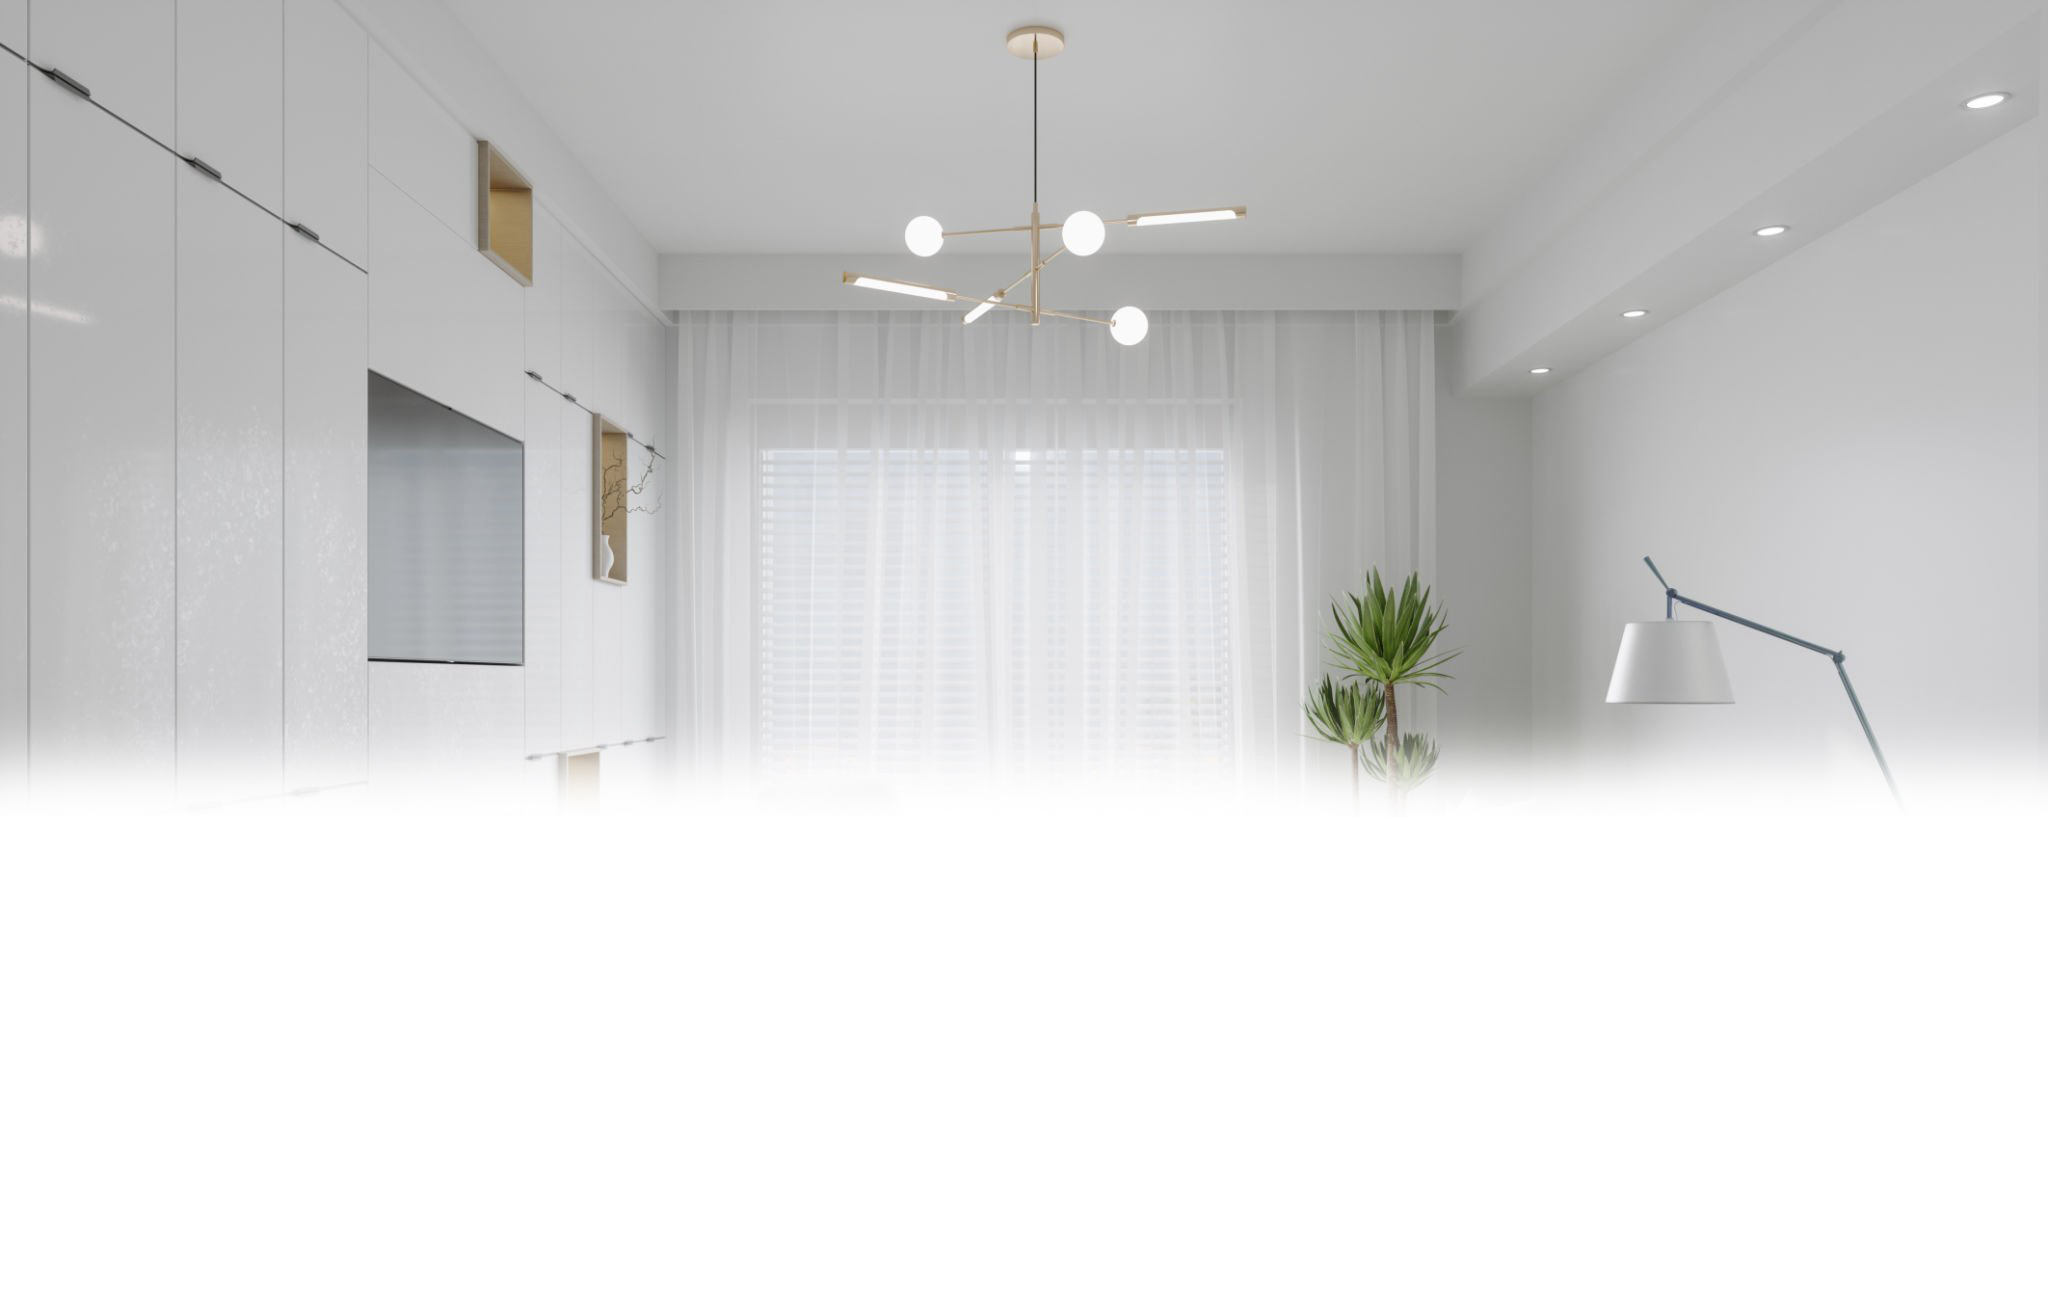
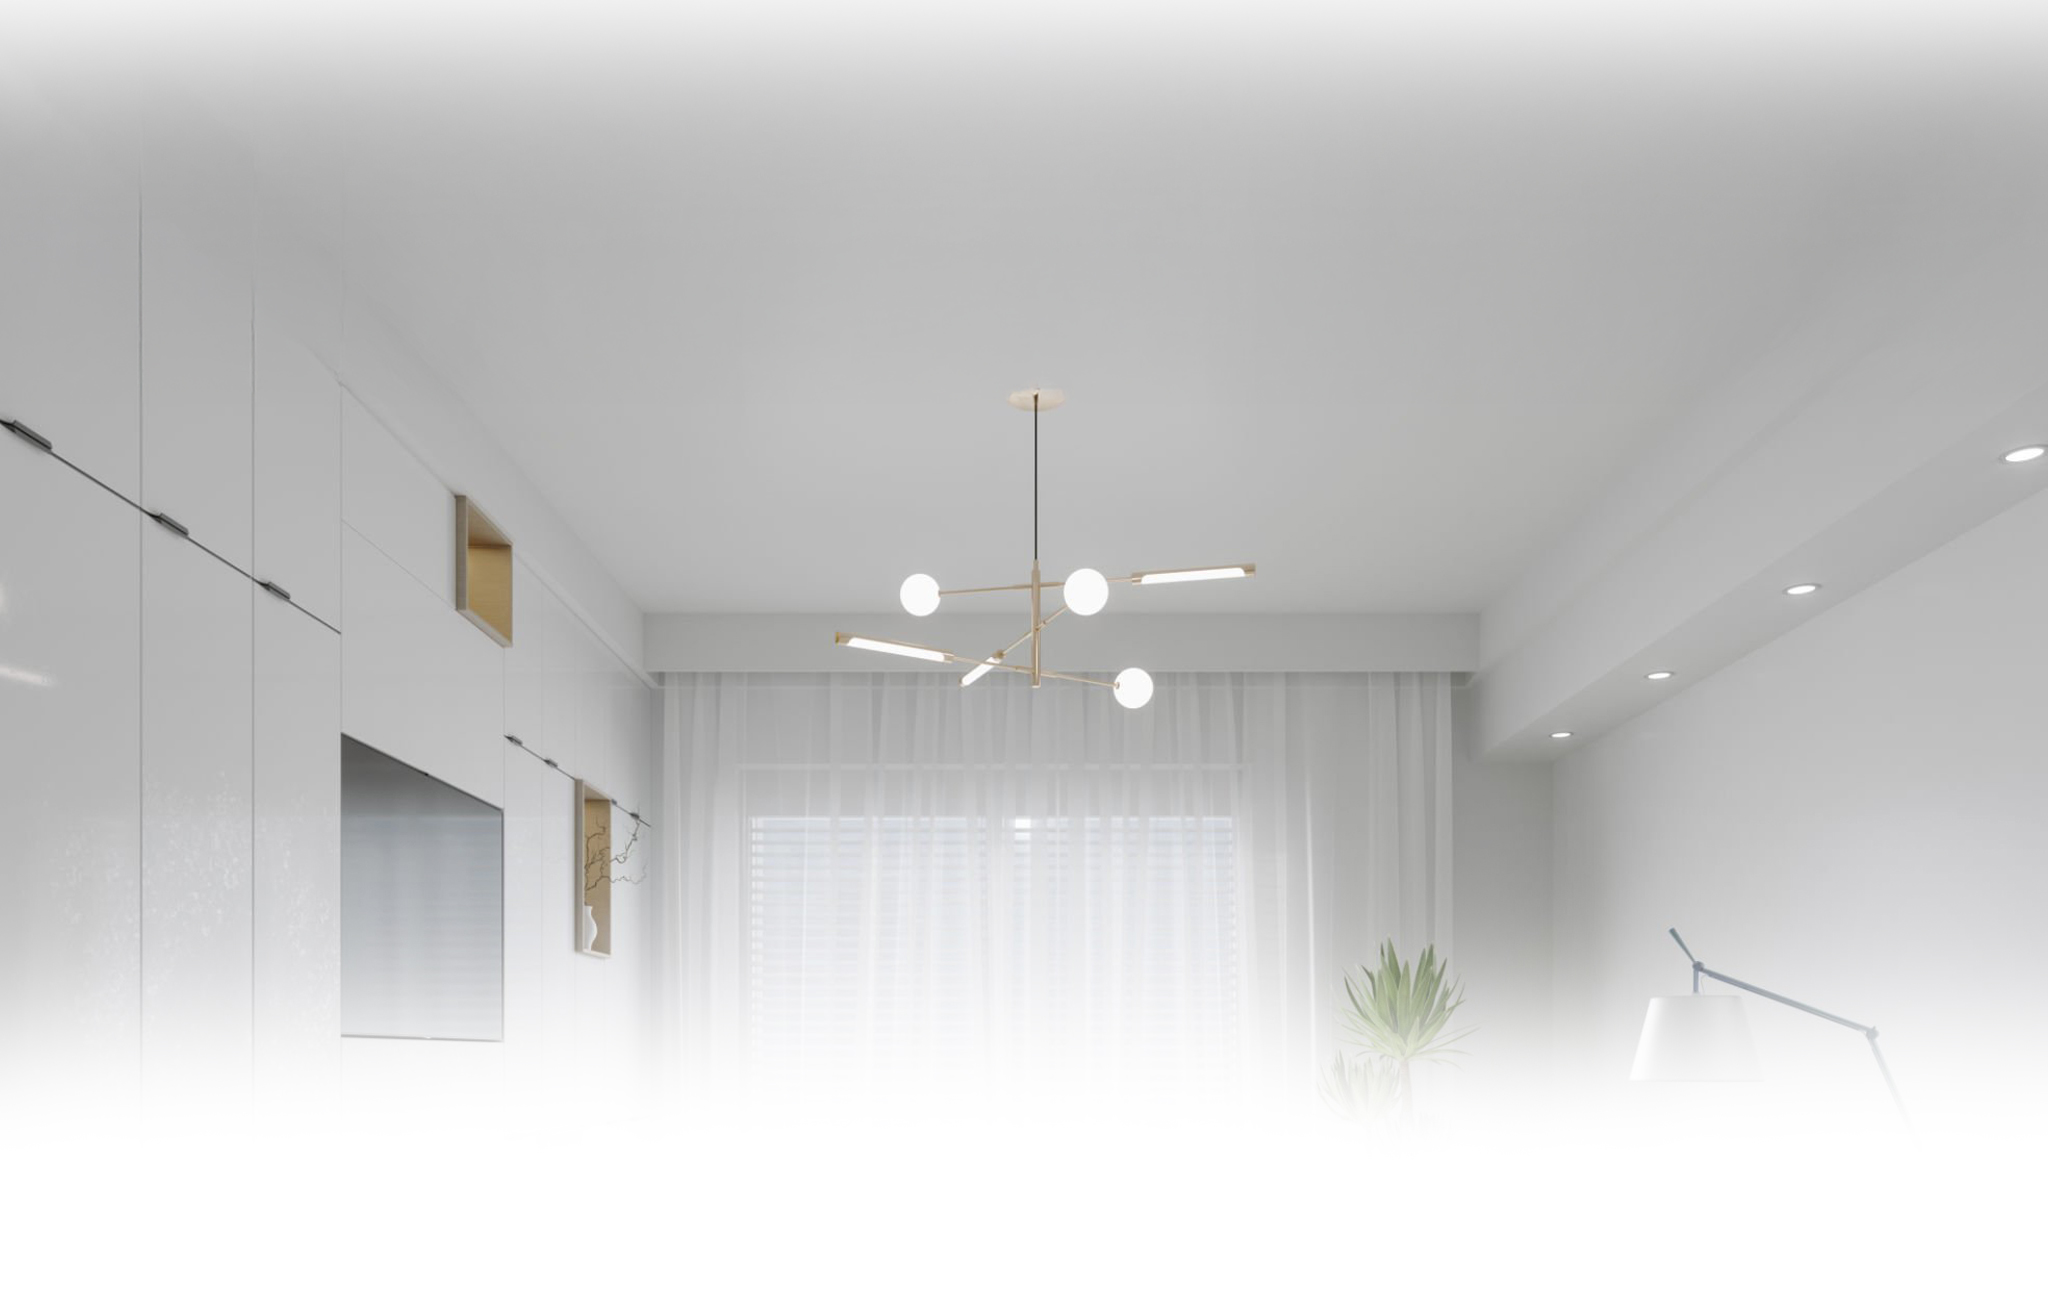
updated text, header, colors etc. (v3.3.2)

diff --git a/src/components/HeroSection.jsx b/src/components/HeroSection.jsx
@@ -1,28 +1,60 @@
+import { Check } from "lucide-react";
+
 const HeroSection = ({ contactRef }) => {
   return (
-    <div className="relative w-full h-[50vh] pt-50 bg-[url('/src/assets/herosection/headerbanner1.jpg')] bg-cover">
-      {" "}
-      {/* Increased height with h-96 */}
-      {/* Overlay for gradient */}
-      <div className="absolute inset-0 bg-gradient-to-r from-white/100 to-transparent"></div>{" "}
-      {/* Added overlay with bottom-up gradient */}
-      {/* Content - positioned above the overlay */}
-      <div className="relative z-10 flex flex-col items-center justify-center h-full w-full max-w-6xl mx-auto ">
-        {" "}
-        {/* Added relative, z-10, justify-center, h-full */}
-        <p className="max-w-4xl mx-auto mb-4 text-center text-sm text-balance text-black md:mb-8 lg:mb-8 md:text-2xl">
-          {" "}
-          {/* Changed text color to white for better contrast */}
-          Your go-to destination for quality electrical solutions.
-        </p>
-        <button
-          onClick={() =>
-            contactRef.current?.scrollIntoView({ behavior: "smooth" })
-          }
-          className="px-4 py-3 mx-2 font-medium border-blue-600 rounded-xs shadow-xs border-1 bg-linear-to-r from-blue-400 to-blue-800 text-amber-50 hover:to-blue-600  md:mb-4 lg:mb-4 md:px-6 md:py-4 md:text-lg cursor-pointer motion-preset-bounce "
-        >
-          CONTACT US
-        </button>
+    <div className="relative w-full min-h-[450px] h-auto max-h-[60vh] xs:max-h-[70vh] sm:h-auto bg-[url('/src/assets/herosection/headerbanner1.jpg')] bg-cover bg-center overflow-hidden">
+      <div className="absolute inset-0 bg-gradient-to-r from-white/95 to-transparent"></div>
+
+      <div className="relative z-10 flex flex-col items-center justify-center h-full w-full max-w-6xl mx-auto pt-6 xs:pt-12 sm:pt-20 sm:px-6 sm:py-8 px-2">
+        <h2 className="text-3xl xs:text-4xl tracking-wide text-center sm:text-5xl lg:text-6xl mx-auto mb-4 xs:mb-6 sm:mb-8 mt-4  xs:mt-8">
+          <span className="text-transparent bg-linear-to-r from-blue-500 to-blue-700 bg-clip-text font-semibold">
+            Your go-to destination for quality electrical solutions.
+          </span>
+        </h2>
+
+        <div className="grid grid-cols-1 gap-4 xs:gap-6 w-full px-2 xs:px-4">
+          <div className="flex flex-col md:flex-row md:justify-center items-center w-full space-y-2 xs:space-y-4 md:space-y-0 md:space-x-32 pb-4">
+            <ul className="flex flex-col space-y-1 xs:space-y-2">
+              {[
+                "Licensed, Bonded, & Insured",
+                "2-year Warranty Guarantee",
+                "Transparent, Upfront Pricing",
+                "Locally & Family Owned",
+                "Free Estimates",
+              ].map((item, index) => (
+                <li
+                  key={index}
+                  className="flex items-center text-base xs:text-lg"
+                >
+                  <Check
+                    className={`mr-2 ${
+                      index % 2 === 0 ? "text-blue-600" : "text-red-600"
+                    }`}
+                    size={16}
+                  />
+                  {item}
+                </li>
+              ))}
+            </ul>
+
+            <div className="flex flex-col items-center space-y-2 pb-4 xs:pb-8 mt-2 xs:mt-0">
+              <button
+                onClick={() =>
+                  contactRef.current?.scrollIntoView({ behavior: "smooth" })
+                }
+                className="w-full max-w-[240px] px-4 xs:px-6 py-3 xs:py-4 font-medium border-blue-600 rounded-md shadow-xs border-1 bg-linear-to-r from-blue-400 to-blue-800 text-amber-50 hover:to-blue-600 text-base xs:text-lg cursor-pointer motion-preset-bounce"
+              >
+                GET A QUOTE TODAY
+              </button>
+              <button
+                onClick={() => (window.location.href = "tel:425-561-9562")}
+                className="w-full max-w-[240px] px-4 xs:px-6 py-3 xs:py-4 font-medium border-red-600 rounded-md shadow-xs border-1 bg-linear-to-r from-red-400 to-red-800 text-amber-50 hover:to-red-600 text-base xs:text-lg cursor-pointer motion-preset-bounce"
+              >
+                CALL US NOW
+              </button>
+            </div>
+          </div>
+        </div>
       </div>
     </div>
   );

diff --git a/src/components/Partners.jsx b/src/components/Partners.jsx
@@ -2,44 +2,47 @@ import { partners } from "../constants"; // Importing the list of partners from 
 
 const Partners = () => {
   return (
-    <div className="mt-20 tracking-wide min-h-[300px]  border-blue-700">
+    <div className="mt-20 tracking-wide min-h-[300px] border-blue-600">
       {/* Separate div for the border at the top */}
       <div className="border-b border-blue-700 max-w-4xl mx-auto "></div>
       {/* Section title */}
-      <h2 className="pt-20 mt-6 text-5xl tracking-wide text-center sm:text-5xl lg:text-6xl">
-        OUR{" "}
-        <span className="text-transparent bg-linear-to-r from-blue-500 to-blue-700 bg-clip-text">
-          PARTNERS
+      <h2 className="pt-10 mt-6 text-4xl tracking-wide text-center sm:text-5xl lg:text-6xl">
+        <span className=" text-center text-transparent bg-linear-to-r from-orange-700 to-orange-600 bg-clip-text">
+          Certified Generac Installer
         </span>
         <br></br> <br></br>
       </h2>
 
-      {/* Container for partner logos */}
-      <div className="flex flex-wrap justify-center">
-        {partners.map((partner, index) => (
-          <div key={index} className="w-full px-4 py-2 sm:w-1/2 lg:w-1/3">
-            {/* Individual partner card */}
-            <div className="p-6 border-1 border-blue-700 rounded-sm bg-neutral-900">
-              <a
-                /* href="https://www.generac.com" */ // Link to partner's website
-                target="_blank" // Opens the link in a new tab
-                rel="noopener noreferrer" // Prevents security vulnerabilities
-              >
-                <img
-                  className="w-full rounded-md h-30 object-contain" // Styling for the partner logo
-                  src={partner.image} // Partner logo image source
-                />
-              </a>
+      {/* Certification description and partner logos side by side */}
+      <div className="flex flex-wrap justify-center  gap-8">
+        {/* Container for partner logos */}
+        <div className="flex flex-wrap justify-center">
+          {partners.map((partner, index) => (
+            <div key={index} className="w-full px-4 py-2 sm:w-1/2 lg:w-1/1">
+              {/* Individual partner card */}
+              <div className="p-6 border-1 border-blue-700 rounded-sm bg-neutral-900">
+                <a
+                  /* href="https://www.generac.com" */ // Link to partner's website
+                  target="_blank" // Opens the link in a new tab
+                  rel="noopener noreferrer" // Prevents security vulnerabilities
+                >
+                  <img
+                    className="w-full rounded-md h-30 object-contain" // Styling for the partner logo
+                    src={partner.image} // Partner logo image source
+                  />
+                </a>
+              </div>
             </div>
-          </div>
-        ))}
-      </div>
-
-      {/* Footer section with certification text */}
-      <div className="flex items-center justify-center pt-6">
-        <span className="text-2xl text-center text-transparent bg-linear-to-r from-orange-700 to-orange-600 bg-clip-text ">
-          Certified Generac Installer
-        </span>
+          ))}
+        </div>
+        {/* Certification description */}
+        <div className="max-w-lg text-lg text-black text-left sm:text-center sm:px-0 px-4">
+          Our certification means we’ve been thoroughly trained to meet
+          Generac’s standards, ensuring your generator is installed correctly,
+          safely, and efficiently. Choosing a certified installer gives you
+          peace of mind and reliable service— making it a smart investment in
+          your home or business’s power security.
+        </div>
       </div>
     </div>
   );

diff --git a/src/components/FeatureSection.jsx b/src/components/FeatureSection.jsx
@@ -39,7 +39,7 @@ const FeatureSection = () => {
       }}
     >
       {/* Section Title */}
-      <h2 className="text-4xl tracking-wide text-center border-t-1  border-blue-700 sm:text-5xl lg:text-6xl  bg-gradient-to-b from-blue-50 to-transparent ">
+      <h2 className="text-4xl tracking-wide text-center border-t-1  border-blue-600 sm:text-5xl lg:text-6xl  bg-gradient-to-b from-blue-50 to-transparent ">
         <br></br>
         OUR{" "}
         <span className="text-transparent bg-linear-to-r from-blue-500 to-blue-700 bg-clip-text">
@@ -75,7 +75,7 @@ const FeatureSection = () => {
           <div
             className={`lg:max-w-2xl motion-preset-focus lg:flex lg:justify-center lg:items-center motion-preset-blur-right max-w-lg p-6 mx-auto mt-0 text-lg text-white bg-black shadow-lg ${
               isExpanded
-                ? "rounded-none"
+                ? "rounded-md"
                 : "motion-preset-fade motion-preset-blur-down"
             }`}
           >
@@ -113,7 +113,7 @@ const FeatureSection = () => {
         <div className="grid grid-cols-2 gap-2 pb-20 md:grid-cols-3"></div>
       </div>
       {/* Separate div for the border at the bottom */}
-      <div className="border-b border-red-700 max-w-4xl mx-auto"></div>
+      <div className="border-b border-red-600 max-w-4xl mx-auto"></div>
     </div>
   );
 };

diff --git a/src/components/ContactUs.jsx b/src/components/ContactUs.jsx
@@ -57,7 +57,7 @@ const Contacts = ({ homeRef }) => {
       }}
     >
       {/* Separate div for the border above remove max-w-4xl mx-auto for the line to extend*/}
-      <div className="border-t-1 border-red-700 max-w-4xl mx-auto  "></div>
+      <div className="border-t-1 border-red-600 max-w-4xl mx-auto "></div>
       <h2 className="flex flex-col items-center gap-2 pt-12 text-5xl tracking-wide text-center bg-gradient-to-b from-white-50 to-transparent">
         <div>
           CONTACT{" "}
@@ -71,7 +71,7 @@ const Contacts = ({ homeRef }) => {
 
         <a
           href="tel:425-588-7578"
-          className="flex items-center justify-center gap-2 text-xl font-semibold text-blue-600"
+          className="flex items-center justify-center gap-2 text-xl font-semibold text-blue-600 pb-2"
         >
           <PhoneCall />
           <p>425-561-9562 </p>

diff --git a/src/components/Projects.jsx b/src/components/Projects.jsx
@@ -30,7 +30,7 @@ const NextArrow = (props) => {
         top: "auto",
         right: "auto",
         cursor: "pointer",
-        backgroundColor: "red",
+        backgroundColor: "#2563EB",
         borderRadius: "6px",
         width: "36px",
         height: "36px",
@@ -65,7 +65,7 @@ const PrevArrow = (props) => {
         top: "auto",
         right: "auto",
         cursor: "pointer",
-        backgroundColor: "red",
+        backgroundColor: "#2563EB",
         borderRadius: "6px",
         width: "36px",
         height: "36px",

diff --git a/src/components/Navbar.jsx b/src/components/Navbar.jsx
@@ -31,7 +31,7 @@ const Navbar = ({ homeRef, servicesRef, projectsRef, contactRef }) => {
   };
 
   return (
-    <nav className="sticky top-0 z-50 font-light backdrop-blur-lg border-blue-700/80 mt-4">
+    <nav className="sticky top-0 z-50 font-light backdrop-blur-lg border-blue-700/80 ">
       <div className="container relative px-4 mx-auto lg:text-sm">
         <div className="flex items-center justify-between">
           {/* Logo section */}

diff --git a/src/components/Footer.jsx b/src/components/Footer.jsx
@@ -2,7 +2,7 @@ import logo from "../assets/logo.png";
 
 const Footer = () => {
   return (
-    <footer className="py-10  text-center border-t border-blue-700 bg-gradient-to-b from-blue-100 to-transparent">
+    <footer className="py-10  text-center border-t border-blue-600 bg-gradient-to-b from-blue-100 to-transparent">
       <h3 className="flex flex-col items-center">
         <img
           className="h-20 m-2"

diff --git a/README.md b/README.md
@@ -1,4 +1,4 @@
-⚡ Meter Electric Landing Page (v3.3.1)
+⚡ Meter Electric Landing Page (v3.3.2)
 
 🚀 Features
 
